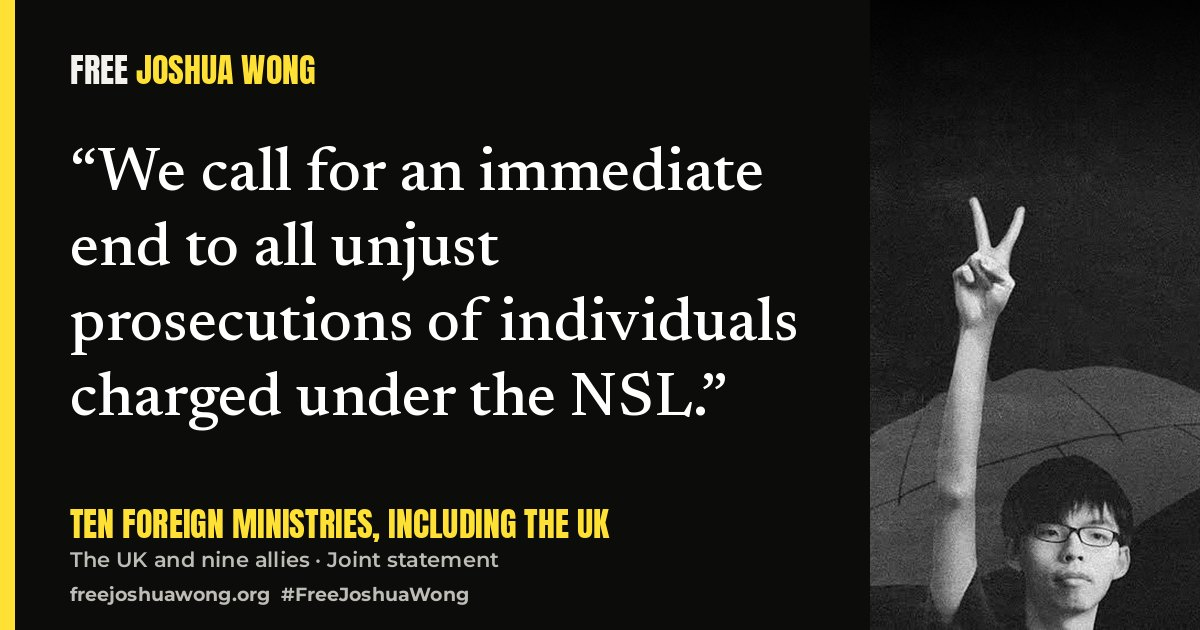
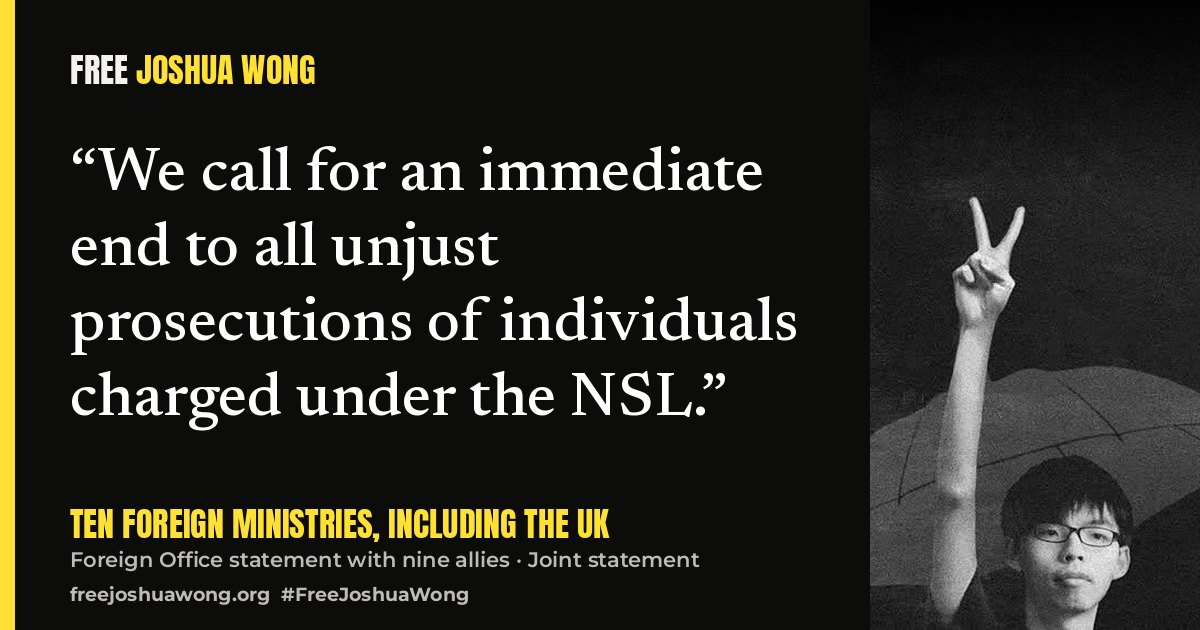
Voices: add both six-monthly reports to the UK Government section; joint statement links to the UK's own GOV.UK copy
Claude-Session: https://claude.ai/code/session_01MmFPUvhE95qVANrbvdPVAE

Changed region(s): [[0.0617, 0.8746, 0.5858, 0.9048]]

diff --git a/case.html b/case.html
@@ -20,7 +20,7 @@
 <link rel="preconnect" href="https://fonts.googleapis.com">
 <link rel="preconnect" href="https://fonts.gstatic.com" crossorigin>
 <link href="https://fonts.googleapis.com/css2?family=Anton&family=Montserrat:wght@500;600;700;800&family=Newsreader:ital,opsz,wght@0,6..72,300..600;1,6..72,300..500&display=swap" rel="stylesheet">
-<link rel="stylesheet" href="assets/site.css?v=772ab83b">
+<link rel="stylesheet" href="assets/site.css?v=890e3bb0">
 <script data-goatcounter="https://freejoshuawong.goatcounter.com/count" async src="https://gc.zgo.at/count.js"></script>
 </head>
 <body>
@@ -95,7 +95,7 @@
       <a class="btn ghost" href="newsroom.html#presskit">Download the fact sheet</a>
     </div>
     <p class="tl-note">Joshua was born on 13 October 1996, so each age shown is his age at the time.</p>
-    <div class="timeline life"><div class="titem"><div class="d">Oct 1996<span class="age">Born</span></div><div><h3>Born in Hong Kong</h3><p>Joshua Wong Chi-fung grows up in a city promised a high degree of autonomy until 2047.</p></div></div><div class="titem"><div class="d">Sep 2012<span class="age">Age 15</span></div><div><h3>Defeats “national education”</h3><p>With Scholarism, the student group he co-founded the year before, he leads the protests that force the Hong Kong government to shelve a compulsory “national education” curriculum.</p></div></div><div class="titem"><div class="d">Sep 2014<span class="age">Age 17</span></div><div><h3>The Umbrella Movement</h3><p>His arrest at Civic Square helps spark 79 days of street occupation demanding genuine universal suffrage. <em>Time</em> puts him on its cover.</p></div></div><div class="titem"><div class="d">Apr 2016<span class="age">Age 19</span></div><div><h3>Co-founds Demosistō</h3><p>With Nathan Law and other Umbrella Movement leaders, he launches Demosistō, a new political party campaigning for democracy in Hong Kong.</p></div></div><div class="titem"><div class="d">Sep 2016<span class="age">Age 19</span></div><div><h3>Gets his friend Nathan Law elected</h3><p>Too young to stand himself, Joshua campaigns for Demosistō’s chairman, Nathan Law, who wins a seat on Hong Kong Island and becomes the youngest lawmaker in Hong Kong’s history, at 23. Nathan is disqualified the following year.</p></div></div><div class="titem"><div class="d">Oct 2016<span class="age">Age 19</span></div><div><h3>Detained at Bangkok airport</h3><p>Held and deported by Thai authorities on his way to speak at a university, an early sign of how far Beijing’s pressure would reach.</p></div></div><div class="titem"><div class="d">Jan 2017<span class="age">Age 20</span></div><div><h3>The film</h3><p><em>Joshua: Teenager vs. Superpower</em> premieres at Sundance and wins the World Cinema Documentary Audience Award.</p></div></div><div class="titem"><div class="d">Aug 2017<span class="age">Age 20</span></div><div><h3>First prison sentence: unlawful assembly</h3><p>Jailed for six months for unlawful assembly over the 2014 Civic Square protest. Hong Kong’s top court quashes the sentence in February 2018.</p></div></div><div class="titem"><div class="d">Sep 2019<span class="age">Age 22</span></div><div><h3>Testifies to the US Congress</h3><p>Gives evidence to the Congressional-Executive Commission on China on human rights in Hong Kong. Years later, prosecutors cite his lobbying in Washington against him.</p></div></div><div class="titem"><div class="d">Jun 2020<span class="age">Age 23</span></div><div><h3>The National Security Law</h3><p>Beijing imposes the National Security Law on Hong Kong. His party, Demosistō, disbands the same day.</p></div></div><div class="titem"><div class="d">Nov 2020<span class="age">Age 24</span></div><div><h3>Jailed over protests, and never released</h3><p>Sentenced to 13½ months for unauthorised assembly over a 2019 protest outside police headquarters. More protest sentences follow in 2021, including for joining a Tiananmen vigil. He has not been free since.</p></div></div><div class="titem"><div class="d">Jan 2021<span class="age">Age 24</span></div><div><h3>Subversion case: arrested as one of the Hong Kong 47</h3><p>Arrested in prison under the National Security Law for taking part in an unofficial pro-democracy primary election, and charged with subversion in February.</p></div></div><div class="titem"><div class="d">Nov 2024<span class="age">Age 28</span></div><div><h3>Subversion case: 4 years 8 months</h3><p>Sentenced in the largest national security trial in Hong Kong’s history. His release date is set for early 2027.</p></div></div><div class="titem"><div class="d">Jun 2025<span class="age">Age 28</span></div><div><h3>Collusion case: charged again in prison</h3><p>Charged with conspiracy to collude with foreign forces, carrying a maximum of life imprisonment. The evidence is his own advocacy and public statements.</p></div></div><div class="titem"><div class="d">Sep 2026<span class="age">Age 29</span></div><div><h3>Raised in Parliament, then a guilty plea</h3><p>On 1 September Sir Iain Duncan Smith <a href="parliament.html#exchange">raises his case in the Commons</a> and the Foreign Secretary says he will take it up. The next day Joshua pleads guilty in the collusion case. On 13 September, 31 MPs, peers and rights leaders sign <a href="letters/open-letter-prime-minister-sept-2026.html">an open letter to the Prime Minister</a>.</p></div></div><div class="titem"><div class="d">13 Oct 2026<span class="age">Age 30</span></div><div><h3>Turns thirty in prison</h3><p>Parliamentarians mark his birthday with a screening of <a href="film.html">the new film</a> in the Houses of Parliament.</p></div></div><div class="titem"><div class="d">5 Nov 2026<span class="age">Age 30</span></div><div><h3>Collusion case: ten more years</h3><p>A Hong Kong court sentences him to ten years for conspiracy to collude with foreign forces. Ten governments, including the UK, condemn it in <a href="https://www.dfat.gov.au/news/statement-sentencing-joshua-wong" target="_blank" rel="noopener">a joint statement</a>. <a href="https://focustaiwan.tw/politics/202611050018" target="_blank" rel="noopener">Taiwan</a> and <a href="https://www.eeas.europa.eu/eeas/hong-kong-statement-spokesperson-sentencing-joshua-wong_en" target="_blank" rel="noopener">the EU</a> condemn it too.</p></div></div><div class="titem"><div class="d">10 Nov 2026<span class="age">Age 30</span></div><div><h3>Raised again in the Commons</h3><p>Five days after the sentence, Emily Darlington MP <a href="parliament.html#exchange-nov">asks the Government</a> to summon the Chinese Ambassador and call for Joshua’s release. The next day she and seven other MPs and peers set out the same demands in <a href="letters/times-letter-nov-2026.html">a letter to <em>The Times</em></a>.</p></div></div><div class="titem future"><div class="d">c. 2036<span class="age">Age 40</span></div><div><h3>Release, if nothing changes</h3><p>Unless governments act, Joshua may not walk free until he is around 40, having spent most of his adult life in prison.</p></div></div></div>
+    <div class="timeline life"><div class="titem"><div class="d">Oct 1996<span class="age">Born</span></div><div><h3>Born in Hong Kong</h3><p>Joshua Wong Chi-fung grows up in a city promised a high degree of autonomy until 2047.</p></div></div><div class="titem"><div class="d">Sep 2012<span class="age">Age 15</span></div><div><h3>Defeats “national education”</h3><p>With Scholarism, the student group he co-founded the year before, he leads the protests that force the Hong Kong government to shelve a compulsory “national education” curriculum.</p></div></div><div class="titem"><div class="d">Sep 2014<span class="age">Age 17</span></div><div><h3>The Umbrella Movement</h3><p>His arrest at Civic Square helps spark 79 days of street occupation demanding genuine universal suffrage. <em>Time</em> puts him on its cover.</p></div></div><div class="titem"><div class="d">Apr 2016<span class="age">Age 19</span></div><div><h3>Co-founds Demosistō</h3><p>With Nathan Law and other Umbrella Movement leaders, he launches Demosistō, a new political party campaigning for democracy in Hong Kong.</p></div></div><div class="titem"><div class="d">Sep 2016<span class="age">Age 19</span></div><div><h3>Gets his friend Nathan Law elected</h3><p>Too young to stand himself, Joshua campaigns for Demosistō’s chairman, Nathan Law, who wins a seat on Hong Kong Island and becomes the youngest lawmaker in Hong Kong’s history, at 23. Nathan is disqualified the following year.</p></div></div><div class="titem"><div class="d">Oct 2016<span class="age">Age 19</span></div><div><h3>Detained at Bangkok airport</h3><p>Held and deported by Thai authorities on his way to speak at a university, an early sign of how far Beijing’s pressure would reach.</p></div></div><div class="titem"><div class="d">Jan 2017<span class="age">Age 20</span></div><div><h3>The film</h3><p><em>Joshua: Teenager vs. Superpower</em> premieres at Sundance and wins the World Cinema Documentary Audience Award.</p></div></div><div class="titem"><div class="d">Aug 2017<span class="age">Age 20</span></div><div><h3>First prison sentence: unlawful assembly</h3><p>Jailed for six months for unlawful assembly over the 2014 Civic Square protest. Hong Kong’s top court quashes the sentence in February 2018.</p></div></div><div class="titem"><div class="d">Sep 2019<span class="age">Age 22</span></div><div><h3>Testifies to the US Congress</h3><p>Gives evidence to the Congressional-Executive Commission on China on human rights in Hong Kong. Years later, prosecutors cite his lobbying in Washington against him.</p></div></div><div class="titem"><div class="d">Jun 2020<span class="age">Age 23</span></div><div><h3>The National Security Law</h3><p>Beijing imposes the National Security Law on Hong Kong. His party, Demosistō, disbands the same day.</p></div></div><div class="titem"><div class="d">Nov 2020<span class="age">Age 24</span></div><div><h3>Jailed over protests, and never released</h3><p>Sentenced to 13½ months for unauthorised assembly over a 2019 protest outside police headquarters. More protest sentences follow in 2021, including for joining a Tiananmen vigil. He has not been free since.</p></div></div><div class="titem"><div class="d">Jan 2021<span class="age">Age 24</span></div><div><h3>Subversion case: arrested as one of the Hong Kong 47</h3><p>Arrested in prison under the National Security Law for taking part in an unofficial pro-democracy primary election, and charged with subversion in February.</p></div></div><div class="titem"><div class="d">Nov 2024<span class="age">Age 28</span></div><div><h3>Subversion case: 4 years 8 months</h3><p>Sentenced in the largest national security trial in Hong Kong’s history. His release date is set for early 2027.</p></div></div><div class="titem"><div class="d">Jun 2025<span class="age">Age 28</span></div><div><h3>Collusion case: charged again in prison</h3><p>Charged with conspiracy to collude with foreign forces, carrying a maximum of life imprisonment. The evidence is his own advocacy and public statements.</p></div></div><div class="titem"><div class="d">Sep 2026<span class="age">Age 29</span></div><div><h3>Raised in Parliament, then a guilty plea</h3><p>On 1 September Sir Iain Duncan Smith <a href="parliament.html#exchange">raises his case in the Commons</a> and the Foreign Secretary says he will take it up. The next day Joshua pleads guilty in the collusion case. On 13 September, 31 MPs, peers and rights leaders sign <a href="letters/open-letter-prime-minister-sept-2026.html">an open letter to the Prime Minister</a>.</p></div></div><div class="titem"><div class="d">13 Oct 2026<span class="age">Age 30</span></div><div><h3>Turns thirty in prison</h3><p>Parliamentarians mark his birthday with a screening of <a href="film.html">the new film</a> in the Houses of Parliament.</p></div></div><div class="titem"><div class="d">5 Nov 2026<span class="age">Age 30</span></div><div><h3>Collusion case: ten more years</h3><p>A Hong Kong court sentences him to ten years for conspiracy to collude with foreign forces. Ten governments, including the UK, condemn it in <a href="https://www.gov.uk/government/news/statement-on-the-sentencing-of-joshua-wong" target="_blank" rel="noopener">a joint statement</a>. <a href="https://focustaiwan.tw/politics/202611050018" target="_blank" rel="noopener">Taiwan</a> and <a href="https://www.eeas.europa.eu/eeas/hong-kong-statement-spokesperson-sentencing-joshua-wong_en" target="_blank" rel="noopener">the EU</a> condemn it too.</p></div></div><div class="titem"><div class="d">10 Nov 2026<span class="age">Age 30</span></div><div><h3>Raised again in the Commons</h3><p>Five days after the sentence, Emily Darlington MP <a href="parliament.html#exchange-nov">asks the Government</a> to summon the Chinese Ambassador and call for Joshua’s release. The next day she and seven other MPs and peers set out the same demands in <a href="letters/times-letter-nov-2026.html">a letter to <em>The Times</em></a>.</p></div></div><div class="titem future"><div class="d">c. 2036<span class="age">Age 40</span></div><div><h3>Release, if nothing changes</h3><p>Unless governments act, Joshua may not walk free until he is around 40, having spent most of his adult life in prison.</p></div></div></div>
   </div>
 </section>
 <section class="cta-band">
@@ -135,6 +135,6 @@
     </div>
   </div>
 </footer>
-<script src="assets/site.js?v=772ab83b"></script>
+<script src="assets/site.js?v=890e3bb0"></script>
 </body>
 </html>

diff --git a/voices.html b/voices.html
@@ -20,7 +20,7 @@
 <link rel="preconnect" href="https://fonts.googleapis.com">
 <link rel="preconnect" href="https://fonts.gstatic.com" crossorigin>
 <link href="https://fonts.googleapis.com/css2?family=Anton&family=Montserrat:wght@500;600;700;800&family=Newsreader:ital,opsz,wght@0,6..72,300..600;1,6..72,300..500&display=swap" rel="stylesheet">
-<link rel="stylesheet" href="assets/site.css?v=772ab83b">
+<link rel="stylesheet" href="assets/site.css?v=890e3bb0">
 <script data-goatcounter="https://freejoshuawong.goatcounter.com/count" async src="https://gc.zgo.at/count.js"></script>
 </head>
 <body>
@@ -50,7 +50,7 @@
   <div class="wrap">
     <div class="v-sec"><h2 class="sec">What governments <em>have said</em></h2><p>Official statements on Joshua’s case, starting with the UK Government. For every question put to UK ministers and their answers, see <a href="parliament.html">Parliament</a>.</p></div>
     <h3 class="gov-h">UK Government</h3>
-    <div class="gov-list"><div class="gov-row"><div class="gov-d">10 Nov 2026<span>UK</span></div><div><blockquote>“The Government share the concerns about Mr Wong and Jimmy Lai.”</blockquote><div class="gov-by"><b>Dan Jarvis MP</b> · Minister of State for Security</div><a class="src" href="https://hansard.parliament.uk/Commons/2026-11-10/debates/E43553F9-3D50-41D2-844C-D23E5DCFBF96/ChinaBreachOfUKParliamentariansData" target="_blank" rel="noopener">Hansard</a></div></div><div class="gov-row"><div class="gov-d">6 Nov 2026<span>UK</span></div><div><blockquote>“We call for an immediate end to all unjust prosecutions of individuals charged under the NSL.”</blockquote><div class="gov-by"><b>Ten foreign ministries, including the UK</b> · The UK and nine allies</div><a class="src" href="https://www.dfat.gov.au/news/statement-sentencing-joshua-wong" target="_blank" rel="noopener">Read the statement</a></div></div><div class="gov-row"><div class="gov-d">2 Dec 2020<span>UK</span></div><div><blockquote>“I urge the Hong Kong and Beijing authorities to bring an end to their campaign to stifle opposition.”</blockquote><div class="gov-by"><b>Dominic Raab</b> · then Foreign Secretary</div><a class="src" href="https://www.aljazeera.com/news/2020/12/2/joshua-wong-jailed-for-xx-years-over-2019-illegal-assembly" target="_blank" rel="noopener">As reported by Al Jazeera</a></div></div></div>
+    <div class="gov-list"><div class="gov-row"><div class="gov-d">10 Nov 2026<span>UK</span></div><div><blockquote>“The Government share the concerns about Mr Wong and Jimmy Lai.”</blockquote><div class="gov-by"><b>Dan Jarvis MP</b> · Minister of State for Security</div><a class="src" href="https://hansard.parliament.uk/Commons/2026-11-10/debates/E43553F9-3D50-41D2-844C-D23E5DCFBF96/ChinaBreachOfUKParliamentariansData" target="_blank" rel="noopener">Hansard</a></div></div><div class="gov-row"><div class="gov-d">6 Nov 2026<span>UK</span></div><div><blockquote>“We call for an immediate end to all unjust prosecutions of individuals charged under the NSL.”</blockquote><div class="gov-by"><b>Ten foreign ministries, including the UK</b> · Foreign Office statement with nine allies</div><a class="src" href="https://www.gov.uk/government/news/statement-on-the-sentencing-of-joshua-wong" target="_blank" rel="noopener">Read the statement</a></div></div><div class="gov-row"><div class="gov-d">22 Oct 2026<span>UK</span></div><div><blockquote>“His case … has reinforced concerns about the increasingly broad application of national security legislation.”</blockquote><div class="gov-by"><b>UK Government</b> · Six-monthly Report on Hong Kong, January to June 2026</div><a class="src" href="https://www.gov.uk/government/publications/six-monthly-report-on-hong-kong-january-to-june-2026/six-monthly-report-on-hong-kong-1-january-to-30-june-2026" target="_blank" rel="noopener">Read the report</a></div></div><div class="gov-row"><div class="gov-d">23 Oct 2025<span>UK</span></div><div><blockquote>“The UK is deeply concerned by the news of further charges under the National Security Law against Joshua Wong.”</blockquote><div class="gov-by"><b>Catherine West MP</b> · then Minister for the Indo-Pacific, in the Six-monthly Report on Hong Kong, January to June 2025</div><a class="src" href="https://www.gov.uk/government/publications/six-monthly-report-on-hong-kong-january-to-june-2025/six-monthly-report-on-hong-kong-1-january-to-30-june-2025" target="_blank" rel="noopener">Read the report</a></div></div><div class="gov-row"><div class="gov-d">2 Dec 2020<span>UK</span></div><div><blockquote>“I urge the Hong Kong and Beijing authorities to bring an end to their campaign to stifle opposition.”</blockquote><div class="gov-by"><b>Dominic Raab</b> · then Foreign Secretary</div><a class="src" href="https://www.aljazeera.com/news/2020/12/2/joshua-wong-jailed-for-xx-years-over-2019-illegal-assembly" target="_blank" rel="noopener">As reported by Al Jazeera</a></div></div></div>
     <h3 class="gov-h">Other governments and the EU</h3>
     <div class="gov-list"><div class="gov-row"><div class="gov-d">6 Nov 2026<span>US</span></div><div><blockquote>“[The United States] strongly condemns the Hong Kong Court’s decision to once again sentence Joshua Wong for exercising his freedom of speech.”</blockquote><div class="gov-by"><b>Marco Rubio</b> · US Secretary of State</div><a class="src" href="https://www.voanews.com/a/us-condemns-hong-kong-courts-sentencing-of-pro-democracy-activist-joshua-wong-20261106/8219799.html" target="_blank" rel="noopener">As reported by VOA</a></div></div><div class="gov-row"><div class="gov-d">5 Nov 2026<span>US</span></div><div><blockquote>“Beijing will go to extraordinary lengths to silence those who advocate for fundamental freedoms in Hong Kong.”</blockquote><div class="gov-by"><b>US Consulate General, Hong Kong</b> · US Government</div><a class="src" href="https://www.wamc.org/2026-11-05/hong-kong-activist-joshua-wong-is-sentenced-to-10-more-years-in-prison" target="_blank" rel="noopener">As reported by AP</a></div></div><div class="gov-row"><div class="gov-d">5 Nov 2026<span>Taiwan</span></div><div><blockquote>“Seeking democracy should not be a crime, and young people should not have to sacrifice their freedom for their ideals.”</blockquote><div class="gov-by"><b>Karen Kuo</b> · Spokesperson, Presidential Office, Taiwan</div><a class="src" href="https://focustaiwan.tw/politics/202611050018" target="_blank" rel="noopener">As reported by Focus Taiwan</a></div></div><div class="gov-row"><div class="gov-d">5 Nov 2026<span>EU</span></div><div><blockquote>“The European Union deplores today’s politically motivated sentencing of Hong Kong pro-democracy activist Joshua Wong.”</blockquote><div class="gov-by"><b>European Union</b> · EEAS spokesperson</div><a class="src" href="https://www.eeas.europa.eu/eeas/hong-kong-statement-spokesperson-sentencing-joshua-wong_en" target="_blank" rel="noopener">Read the statement</a></div></div></div>
   </div>
@@ -109,7 +109,7 @@
     </div>
   </div>
 </footer>
-<script src="assets/voices.js?v=772ab83b"></script>
-<script src="assets/site.js?v=772ab83b"></script>
+<script src="assets/voices.js?v=890e3bb0"></script>
+<script src="assets/site.js?v=890e3bb0"></script>
 </body>
 </html>

diff --git a/voices/six-monthly-report-2025-10-23.html b/voices/six-monthly-report-2025-10-23.html
@@ -1,0 +1,76 @@
+<!DOCTYPE html>
+<html lang="en-GB">
+<head>
+<meta charset="utf-8">
+<meta name="viewport" content="width=device-width, initial-scale=1">
+<meta name="theme-color" content="#0C0C0B">
+<meta name="apple-mobile-web-app-title" content="Free Joshua">
+<link rel="apple-touch-icon" href="../images/apple-touch-icon.png">
+<link rel="icon" type="image/png" href="../images/favicon.png">
+<title>“The UK is deeply concerned by the news of further charges under the National Security Law against Joshua Wong.” — Catherine West MP — Free Joshua Wong</title>
+<meta name="description" content="Catherine West MP on Joshua Wong. #FreeJoshuaWong #JoshuaWong">
+<meta property="og:title" content="“The UK is deeply concerned by the news of further charges under the National Security Law against Joshua Wong.” — Catherine West MP — Free Joshua Wong">
+<meta property="og:description" content="Catherine West MP on Joshua Wong. #FreeJoshuaWong #JoshuaWong">
+<meta property="og:image" content="https://freejoshuawong.org/images/quotes/six-monthly-report-2025-10-23.jpg">
+<meta property="og:image:width" content="1200">
+<meta property="og:image:height" content="630">
+<meta name="twitter:image" content="https://freejoshuawong.org/images/quotes/six-monthly-report-2025-10-23.jpg">
+<meta property="og:url" content="https://freejoshuawong.org/voices/six-monthly-report-2025-10-23.html">
+<meta name="twitter:card" content="summary_large_image">
+<link rel="preconnect" href="https://fonts.googleapis.com">
+<link rel="preconnect" href="https://fonts.gstatic.com" crossorigin>
+<link href="https://fonts.googleapis.com/css2?family=Anton&family=Montserrat:wght@500;600;700;800&family=Newsreader:ital,opsz,wght@0,6..72,300..600;1,6..72,300..500&display=swap" rel="stylesheet">
+<link rel="stylesheet" href="../assets/site.css?v=890e3bb0">
+<script data-goatcounter="https://freejoshuawong.goatcounter.com/count" async src="https://gc.zgo.at/count.js"></script>
+</head>
+<body>
+<nav class="top" aria-label="Main">
+  <div class="wrap">
+    <a class="brand" href="../index.html">Free <span>Joshua Wong</span></a>
+    <div class="links"><a href="../case.html">The case</a><a href="../film.html">Watch</a><a href="../newsroom.html">Newsroom</a><a href="../parliament.html">Parliament</a><a href="../voices.html" aria-current="page">Voices</a><a href="../socials.html">Socials</a><a href="../write.html">Write to Joshua</a><a href="../zh.html" lang="zh-Hant-HK" class="lang">中文</a><a href="../act.html" class="mob-only">Take action</a></div>
+    <a class="btn" href="../act.html">Take action</a>
+    <button class="menu-btn" type="button" aria-expanded="false">Menu</button>
+  </div>
+</nav>
+
+<section class="qpage" style="border-top:0">
+  <div class="wrap">
+    <div class="crumbs"><a href="../voices.html">Voices</a> &nbsp;/&nbsp; Catherine West MP</div>
+    <figure class="vq qbig k-government mid">
+      <div class="vq-top"><span class="vq-where">Report to Parliament</span><span class="vq-date">23 Oct 2025</span></div>
+      <blockquote>The UK is deeply concerned by the news of further charges under the National Security Law against Joshua Wong.</blockquote>
+      <figcaption><b>Catherine West MP</b><span>then Minister for the Indo-Pacific, in the Six-monthly Report on Hong Kong, January to June 2025 · UK</span></figcaption>
+    </figure>
+    <div data-share data-url="https://freejoshuawong.org/voices/six-monthly-report-2025-10-23.html" data-text="“The UK is deeply concerned by the news of further charges under the National Security Law against Joshua Wong.” — Catherine West MP"></div>
+    <p class="q-actions"><a class="btn" href="https://www.gov.uk/government/publications/six-monthly-report-on-hong-kong-january-to-june-2025/six-monthly-report-on-hong-kong-1-january-to-30-june-2025" target="_blank" rel="noopener">See where it was said</a><a class="btn ghost" href="../voices.html">All voices</a></p>
+    <p class="q-img"><a href="../images/quotes/six-monthly-report-2025-10-23.jpg" download>Download this quote as an image</a> for Instagram or WhatsApp.</p>
+  </div>
+</section>
+<section class="colleagues" aria-label="Further reading">
+  <div class="wrap">
+    <div class="label dim">More on Hong Kong’s political prisoners</div>
+    <div class="row"><a href="https://www.hongkongwatch.org" target="_blank" rel="noopener">Hong Kong Watch</a><a href="https://thecfhk.org" target="_blank" rel="noopener">Committee for Freedom in Hong Kong Foundation</a><a href="https://www.indexoncensorship.org" target="_blank" rel="noopener">Index on Censorship</a><a href="https://www.fortifyrights.org" target="_blank" rel="noopener">Fortify Rights</a><a href="https://www.ipac.global" target="_blank" rel="noopener">Inter-Parliamentary Alliance on China</a></div>
+  </div>
+</section>
+<footer>
+  <div class="wrap">
+    <div>
+      <div class="brand">Free <span>Joshua Wong</span></div>
+      <p>A campaign for the release of Joshua Wong, the Hong Kong democracy campaigner in prison since November 2020.</p>
+      <p class="updated" style="font-size:12px;opacity:.6">Last updated 17 November 2026</p>
+    </div>
+    <div class="cols">
+      <nav aria-label="Footer">
+        <a href="../case.html">The case</a><a href="../film.html">Watch</a><a href="../newsroom.html">Newsroom</a><a href="../parliament.html">Parliament</a><a href="../voices.html">Voices</a><a href="../socials.html">Socials</a>
+        <a href="../newsroom.html#presskit">Press kit</a><a href="../act.html">Take action</a>
+      </nav>
+      <div>
+        <p style="font-weight:700;letter-spacing:.14em;text-transform:uppercase;font-size:11px;color:var(--accent);margin:0">Press enquiries</p>
+        <p>press@freejoshuawong.org</p>
+      </div>
+    </div>
+  </div>
+</footer>
+<script src="../assets/site.js?v=890e3bb0"></script>
+</body>
+</html>

diff --git a/voices/six-monthly-report-2026-10-22.html b/voices/six-monthly-report-2026-10-22.html
@@ -1,0 +1,76 @@
+<!DOCTYPE html>
+<html lang="en-GB">
+<head>
+<meta charset="utf-8">
+<meta name="viewport" content="width=device-width, initial-scale=1">
+<meta name="theme-color" content="#0C0C0B">
+<meta name="apple-mobile-web-app-title" content="Free Joshua">
+<link rel="apple-touch-icon" href="../images/apple-touch-icon.png">
+<link rel="icon" type="image/png" href="../images/favicon.png">
+<title>“His case … has reinforced concerns about the increasingly broad application of national security legislation.” — UK Government — Free Joshua Wong</title>
+<meta name="description" content="UK Government on Joshua Wong. #FreeJoshuaWong #JoshuaWong">
+<meta property="og:title" content="“His case … has reinforced concerns about the increasingly broad application of national security legislation.” — UK Government — Free Joshua Wong">
+<meta property="og:description" content="UK Government on Joshua Wong. #FreeJoshuaWong #JoshuaWong">
+<meta property="og:image" content="https://freejoshuawong.org/images/quotes/six-monthly-report-2026-10-22.jpg">
+<meta property="og:image:width" content="1200">
+<meta property="og:image:height" content="630">
+<meta name="twitter:image" content="https://freejoshuawong.org/images/quotes/six-monthly-report-2026-10-22.jpg">
+<meta property="og:url" content="https://freejoshuawong.org/voices/six-monthly-report-2026-10-22.html">
+<meta name="twitter:card" content="summary_large_image">
+<link rel="preconnect" href="https://fonts.googleapis.com">
+<link rel="preconnect" href="https://fonts.gstatic.com" crossorigin>
+<link href="https://fonts.googleapis.com/css2?family=Anton&family=Montserrat:wght@500;600;700;800&family=Newsreader:ital,opsz,wght@0,6..72,300..600;1,6..72,300..500&display=swap" rel="stylesheet">
+<link rel="stylesheet" href="../assets/site.css?v=890e3bb0">
+<script data-goatcounter="https://freejoshuawong.goatcounter.com/count" async src="https://gc.zgo.at/count.js"></script>
+</head>
+<body>
+<nav class="top" aria-label="Main">
+  <div class="wrap">
+    <a class="brand" href="../index.html">Free <span>Joshua Wong</span></a>
+    <div class="links"><a href="../case.html">The case</a><a href="../film.html">Watch</a><a href="../newsroom.html">Newsroom</a><a href="../parliament.html">Parliament</a><a href="../voices.html" aria-current="page">Voices</a><a href="../socials.html">Socials</a><a href="../write.html">Write to Joshua</a><a href="../zh.html" lang="zh-Hant-HK" class="lang">中文</a><a href="../act.html" class="mob-only">Take action</a></div>
+    <a class="btn" href="../act.html">Take action</a>
+    <button class="menu-btn" type="button" aria-expanded="false">Menu</button>
+  </div>
+</nav>
+
+<section class="qpage" style="border-top:0">
+  <div class="wrap">
+    <div class="crumbs"><a href="../voices.html">Voices</a> &nbsp;/&nbsp; UK Government</div>
+    <figure class="vq qbig k-government mid">
+      <div class="vq-top"><span class="vq-where">Report to Parliament</span><span class="vq-date">22 Oct 2026</span></div>
+      <blockquote>His case … has reinforced concerns about the increasingly broad application of national security legislation.</blockquote>
+      <figcaption><b>UK Government</b><span>Six-monthly Report on Hong Kong, January to June 2026 · UK</span></figcaption>
+    </figure>
+    <div data-share data-url="https://freejoshuawong.org/voices/six-monthly-report-2026-10-22.html" data-text="“His case … has reinforced concerns about the increasingly broad application of national security legislation.” — UK Government"></div>
+    <p class="q-actions"><a class="btn" href="https://www.gov.uk/government/publications/six-monthly-report-on-hong-kong-january-to-june-2026/six-monthly-report-on-hong-kong-1-january-to-30-june-2026" target="_blank" rel="noopener">See where it was said</a><a class="btn ghost" href="../voices.html">All voices</a></p>
+    <p class="q-img"><a href="../images/quotes/six-monthly-report-2026-10-22.jpg" download>Download this quote as an image</a> for Instagram or WhatsApp.</p>
+  </div>
+</section>
+<section class="colleagues" aria-label="Further reading">
+  <div class="wrap">
+    <div class="label dim">More on Hong Kong’s political prisoners</div>
+    <div class="row"><a href="https://www.hongkongwatch.org" target="_blank" rel="noopener">Hong Kong Watch</a><a href="https://thecfhk.org" target="_blank" rel="noopener">Committee for Freedom in Hong Kong Foundation</a><a href="https://www.indexoncensorship.org" target="_blank" rel="noopener">Index on Censorship</a><a href="https://www.fortifyrights.org" target="_blank" rel="noopener">Fortify Rights</a><a href="https://www.ipac.global" target="_blank" rel="noopener">Inter-Parliamentary Alliance on China</a></div>
+  </div>
+</section>
+<footer>
+  <div class="wrap">
+    <div>
+      <div class="brand">Free <span>Joshua Wong</span></div>
+      <p>A campaign for the release of Joshua Wong, the Hong Kong democracy campaigner in prison since November 2020.</p>
+      <p class="updated" style="font-size:12px;opacity:.6">Last updated 17 November 2026</p>
+    </div>
+    <div class="cols">
+      <nav aria-label="Footer">
+        <a href="../case.html">The case</a><a href="../film.html">Watch</a><a href="../newsroom.html">Newsroom</a><a href="../parliament.html">Parliament</a><a href="../voices.html">Voices</a><a href="../socials.html">Socials</a>
+        <a href="../newsroom.html#presskit">Press kit</a><a href="../act.html">Take action</a>
+      </nav>
+      <div>
+        <p style="font-weight:700;letter-spacing:.14em;text-transform:uppercase;font-size:11px;color:var(--accent);margin:0">Press enquiries</p>
+        <p>press@freejoshuawong.org</p>
+      </div>
+    </div>
+  </div>
+</footer>
+<script src="../assets/site.js?v=890e3bb0"></script>
+</body>
+</html>

diff --git a/voices/ten-foreign-ministries-including-the-uk-2026-11-06.html b/voices/ten-foreign-ministries-including-the-uk-2026-11-06.html
@@ -20,7 +20,7 @@
 <link rel="preconnect" href="https://fonts.googleapis.com">
 <link rel="preconnect" href="https://fonts.gstatic.com" crossorigin>
 <link href="https://fonts.googleapis.com/css2?family=Anton&family=Montserrat:wght@500;600;700;800&family=Newsreader:ital,opsz,wght@0,6..72,300..600;1,6..72,300..500&display=swap" rel="stylesheet">
-<link rel="stylesheet" href="../assets/site.css?v=772ab83b">
+<link rel="stylesheet" href="../assets/site.css?v=890e3bb0">
 <script data-goatcounter="https://freejoshuawong.goatcounter.com/count" async src="https://gc.zgo.at/count.js"></script>
 </head>
 <body>
@@ -39,10 +39,10 @@
     <figure class="vq qbig k-government mid">
       <div class="vq-top"><span class="vq-where">Joint statement</span><span class="vq-date">6 Nov 2026</span></div>
       <blockquote>We call for an immediate end to all unjust prosecutions of individuals charged under the NSL.</blockquote>
-      <figcaption><b>Ten foreign ministries, including the UK</b><span>The UK and nine allies · UK</span></figcaption>
+      <figcaption><b>Ten foreign ministries, including the UK</b><span>Foreign Office statement with nine allies · UK</span></figcaption>
     </figure>
     <div data-share data-url="https://freejoshuawong.org/voices/ten-foreign-ministries-including-the-uk-2026-11-06.html" data-text="“We call for an immediate end to all unjust prosecutions of individuals charged under the NSL.” — Ten foreign ministries, including the UK"></div>
-    <p class="q-actions"><a class="btn" href="https://www.dfat.gov.au/news/statement-sentencing-joshua-wong" target="_blank" rel="noopener">See where it was said</a><a class="btn ghost" href="../voices.html">All voices</a></p>
+    <p class="q-actions"><a class="btn" href="https://www.gov.uk/government/news/statement-on-the-sentencing-of-joshua-wong" target="_blank" rel="noopener">See where it was said</a><a class="btn ghost" href="../voices.html">All voices</a></p>
     <p class="q-img"><a href="../images/quotes/ten-foreign-ministries-including-the-uk-2026-11-06.jpg" download>Download this quote as an image</a> for Instagram or WhatsApp.</p>
   </div>
 </section>
@@ -71,6 +71,6 @@
     </div>
   </div>
 </footer>
-<script src="../assets/site.js?v=772ab83b"></script>
+<script src="../assets/site.js?v=890e3bb0"></script>
 </body>
 </html>

diff --git a/assets/voices.js b/assets/voices.js
@@ -6,9 +6,15 @@
 // via: if we link to a news report of the post rather than the post itself, name the outlet here.
 // id: optional; needed if one person has two quotes on the same date.
 window.VOICES = [
-  {date:"2026-11-06", kind:"government", who:"Ten foreign ministries, including the UK", role:"The UK and nine allies", country:"UK", where:"Joint statement",
+  {date:"2026-11-06", kind:"government", who:"Ten foreign ministries, including the UK", role:"Foreign Office statement with nine allies", country:"UK", where:"Joint statement",
    quote:"We call for an immediate end to all unjust prosecutions of individuals charged under the NSL.",
-   url:"https://www.dfat.gov.au/news/statement-sentencing-joshua-wong"},
+   url:"https://www.gov.uk/government/news/statement-on-the-sentencing-of-joshua-wong"},
+  {date:"2026-10-22", kind:"government", who:"UK Government", role:"Six-monthly Report on Hong Kong, January to June 2026", country:"UK", where:"Report to Parliament", id:"six-monthly-report-2026-10-22",
+   quote:"His case … has reinforced concerns about the increasingly broad application of national security legislation.",
+   url:"https://www.gov.uk/government/publications/six-monthly-report-on-hong-kong-january-to-june-2026/six-monthly-report-on-hong-kong-1-january-to-30-june-2026"},
+  {date:"2025-10-23", kind:"government", who:"Catherine West MP", role:"then Minister for the Indo-Pacific, in the Six-monthly Report on Hong Kong, January to June 2025", country:"UK", where:"Report to Parliament", id:"six-monthly-report-2025-10-23",
+   quote:"The UK is deeply concerned by the news of further charges under the National Security Law against Joshua Wong.",
+   url:"https://www.gov.uk/government/publications/six-monthly-report-on-hong-kong-january-to-june-2025/six-monthly-report-on-hong-kong-1-january-to-30-june-2025"},
   {date:"2026-11-05", kind:"government", who:"US Consulate General, Hong Kong", role:"US Government", country:"US", where:"Statement", via:"AP",
    quote:"Beijing will go to extraordinary lengths to silence those who advocate for fundamental freedoms in Hong Kong.",
    url:"https://www.wamc.org/2026-11-05/hong-kong-activist-joshua-wong-is-sentenced-to-10-more-years-in-prison"},

diff --git a/assets/socials.js b/assets/socials.js
@@ -27,7 +27,7 @@ window.SOCIALS = [
    text:"The U.S. strongly condemns the Hong Kong Court’s decision to once again sentence Joshua Wong for exercising his freedom of speech. He has used peaceful means to defend the rights promised to all individuals in Hong Kong.\n\nWe call for his immediate release and that of all unjustly detained persons."},
   {id:"fcdo", date:"2026-11-06", name:"Foreign, Commonwealth & Development Office", handle:"FCDOGovUK", group:"gov", role:"UK Government",
    text:"Joint statement on the sentencing of Joshua Wong ⬇",
-   link:{site:"Statement", title:"Ten foreign ministries, including the UK: “We call for an immediate end to all unjust prosecutions of individuals charged under the NSL”", url:"https://www.dfat.gov.au/news/statement-sentencing-joshua-wong"}},
+   link:{site:"Statement", title:"Ten foreign ministries, including the UK: “We call for an immediate end to all unjust prosecutions of individuals charged under the NSL”", url:"https://www.gov.uk/government/news/statement-on-the-sentencing-of-joshua-wong"}},
   {id:"alton-statement", date:"2026-11-06", name:"Lord (David) Alton", handle:"DavidAltonHL", group:"uk", role:"Crossbench peer",
    text:"Statement on the sentencing of Joshua Wong from the foreign ministries of Australia, Canada, France, Germany, Italy, Japan, the Netherlands, New Zealand, the United Kingdom, and the United States."},
   {id:"cfhk", date:"2026-11-06", name:"The Committee for Freedom in Hong Kong Foundation", handle:"", group:"campaign", profile:"https://thecfhk.org",

diff --git a/socials.html b/socials.html
@@ -20,7 +20,7 @@
 <link rel="preconnect" href="https://fonts.googleapis.com">
 <link rel="preconnect" href="https://fonts.gstatic.com" crossorigin>
 <link href="https://fonts.googleapis.com/css2?family=Anton&family=Montserrat:wght@500;600;700;800&family=Newsreader:ital,opsz,wght@0,6..72,300..600;1,6..72,300..500&display=swap" rel="stylesheet">
-<link rel="stylesheet" href="assets/site.css?v=772ab83b">
+<link rel="stylesheet" href="assets/site.css?v=890e3bb0">
 <script data-goatcounter="https://freejoshuawong.goatcounter.com/count" async src="https://gc.zgo.at/count.js"></script>
 </head>
 <body>
@@ -92,7 +92,7 @@
     </div>
   </div>
 </footer>
-<script src="assets/socials.js?v=772ab83b"></script>
-<script src="assets/site.js?v=772ab83b"></script>
+<script src="assets/socials.js?v=890e3bb0"></script>
+<script src="assets/site.js?v=890e3bb0"></script>
 </body>
 </html>

diff --git a/newsroom.html b/newsroom.html
@@ -20,7 +20,7 @@
 <link rel="preconnect" href="https://fonts.googleapis.com">
 <link rel="preconnect" href="https://fonts.gstatic.com" crossorigin>
 <link href="https://fonts.googleapis.com/css2?family=Anton&family=Montserrat:wght@500;600;700;800&family=Newsreader:ital,opsz,wght@0,6..72,300..600;1,6..72,300..500&display=swap" rel="stylesheet">
-<link rel="stylesheet" href="assets/site.css?v=772ab83b">
+<link rel="stylesheet" href="assets/site.css?v=890e3bb0">
 <script data-goatcounter="https://freejoshuawong.goatcounter.com/count" async src="https://gc.zgo.at/count.js"></script>
 </head>
 <body>
@@ -149,7 +149,7 @@
     </div>
   </div>
 </footer>
-<script src="assets/press.js?v=772ab83b"></script>
-<script src="assets/site.js?v=772ab83b"></script>
+<script src="assets/press.js?v=890e3bb0"></script>
+<script src="assets/site.js?v=890e3bb0"></script>
 </body>
 </html>

diff --git a/index.html b/index.html
@@ -20,7 +20,7 @@
 <link rel="preconnect" href="https://fonts.googleapis.com">
 <link rel="preconnect" href="https://fonts.gstatic.com" crossorigin>
 <link href="https://fonts.googleapis.com/css2?family=Anton&family=Montserrat:wght@500;600;700;800&family=Newsreader:ital,opsz,wght@0,6..72,300..600;1,6..72,300..500&display=swap" rel="stylesheet">
-<link rel="stylesheet" href="assets/site.css?v=772ab83b">
+<link rel="stylesheet" href="assets/site.css?v=890e3bb0">
 <script data-goatcounter="https://freejoshuawong.goatcounter.com/count" async src="https://gc.zgo.at/count.js"></script>
 </head>
 <body>
@@ -244,6 +244,6 @@ window.addEventListener('DOMContentLoaded',function(){
   </div>
 </footer>
 <script src="assets/messages.js"></script>
-<script src="assets/site.js?v=772ab83b"></script>
+<script src="assets/site.js?v=890e3bb0"></script>
 </body>
 </html>

diff --git a/write.html b/write.html
@@ -20,7 +20,7 @@
 <link rel="preconnect" href="https://fonts.googleapis.com">
 <link rel="preconnect" href="https://fonts.gstatic.com" crossorigin>
 <link href="https://fonts.googleapis.com/css2?family=Anton&family=Montserrat:wght@500;600;700;800&family=Newsreader:ital,opsz,wght@0,6..72,300..600;1,6..72,300..500&display=swap" rel="stylesheet">
-<link rel="stylesheet" href="assets/site.css?v=772ab83b">
+<link rel="stylesheet" href="assets/site.css?v=890e3bb0">
 <script data-goatcounter="https://freejoshuawong.goatcounter.com/count" async src="https://gc.zgo.at/count.js"></script>
 </head>
 <body>
@@ -115,6 +115,6 @@
   </div>
 </footer>
 <script src="assets/messages.js"></script>
-<script src="assets/site.js?v=772ab83b"></script>
+<script src="assets/site.js?v=890e3bb0"></script>
 </body>
 </html>

diff --git a/act.html b/act.html
@@ -20,7 +20,7 @@
 <link rel="preconnect" href="https://fonts.googleapis.com">
 <link rel="preconnect" href="https://fonts.gstatic.com" crossorigin>
 <link href="https://fonts.googleapis.com/css2?family=Anton&family=Montserrat:wght@500;600;700;800&family=Newsreader:ital,opsz,wght@0,6..72,300..600;1,6..72,300..500&display=swap" rel="stylesheet">
-<link rel="stylesheet" href="assets/site.css?v=772ab83b">
+<link rel="stylesheet" href="assets/site.css?v=890e3bb0">
 <script data-goatcounter="https://freejoshuawong.goatcounter.com/count" async src="https://gc.zgo.at/count.js"></script>
 </head>
 <body>
@@ -142,6 +142,6 @@ Yours sincerely,
     </div>
   </div>
 </footer>
-<script src="assets/site.js?v=772ab83b"></script>
+<script src="assets/site.js?v=890e3bb0"></script>
 </body>
 </html>
